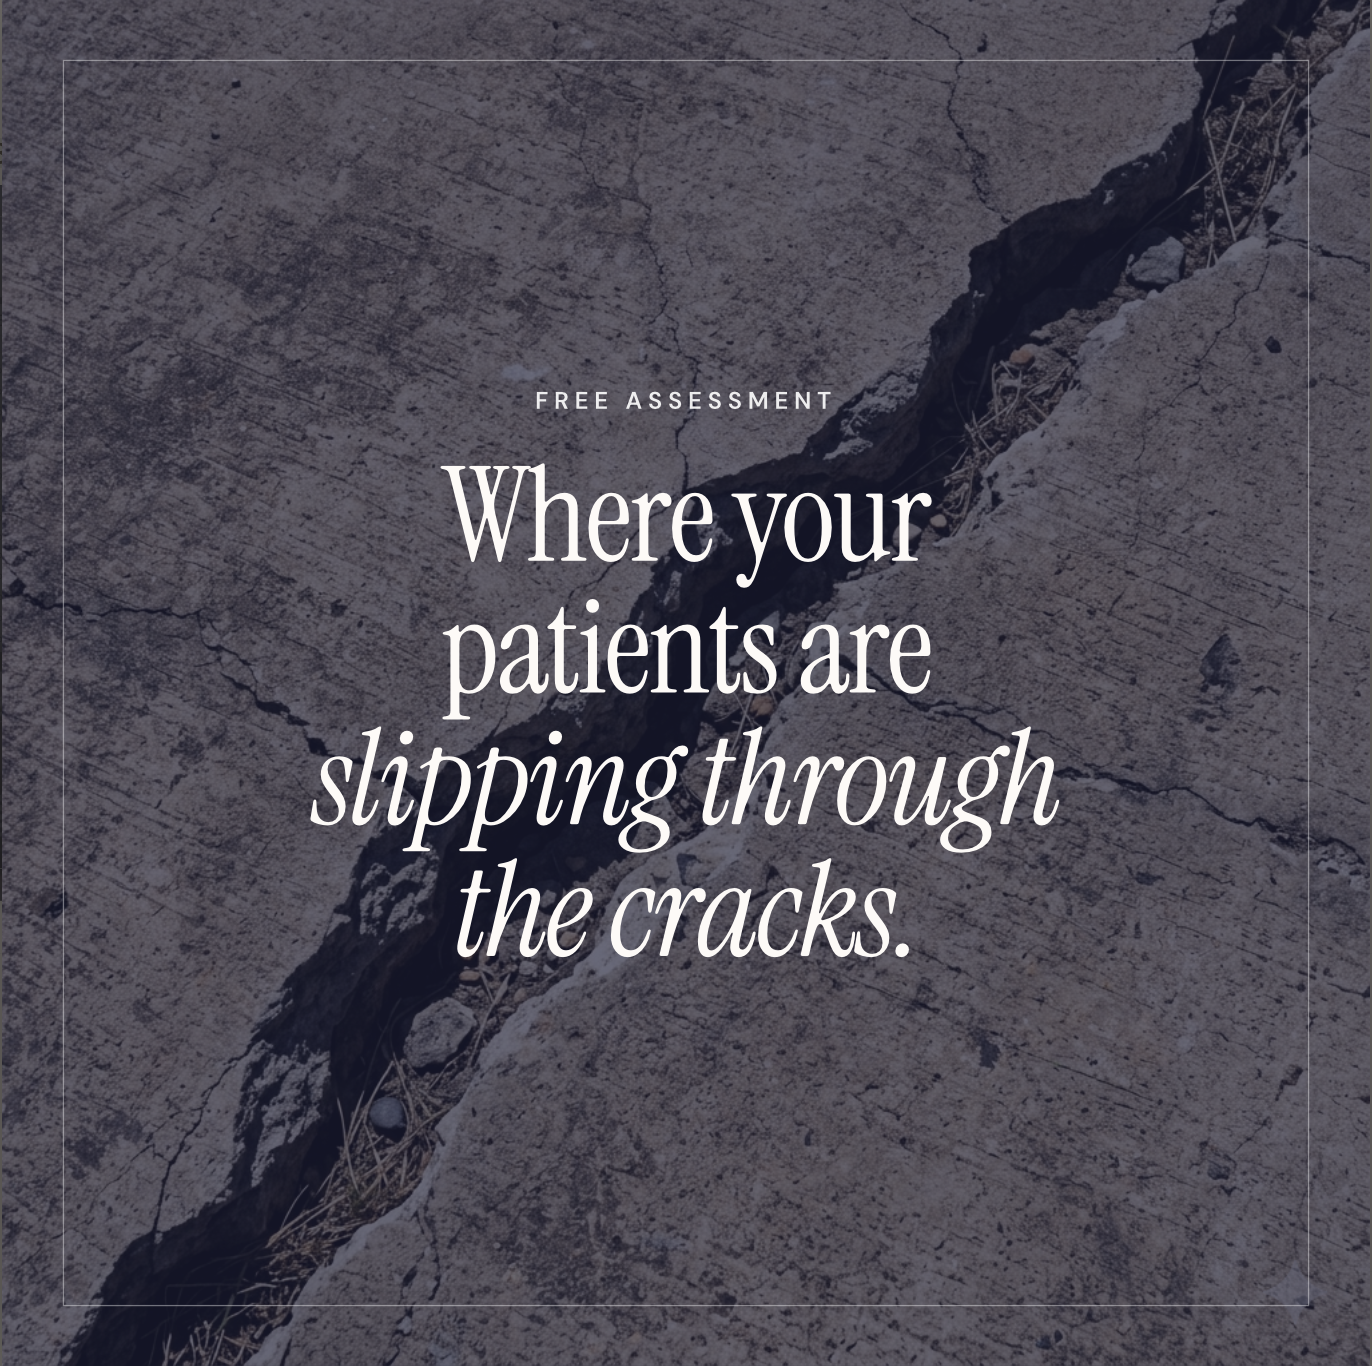
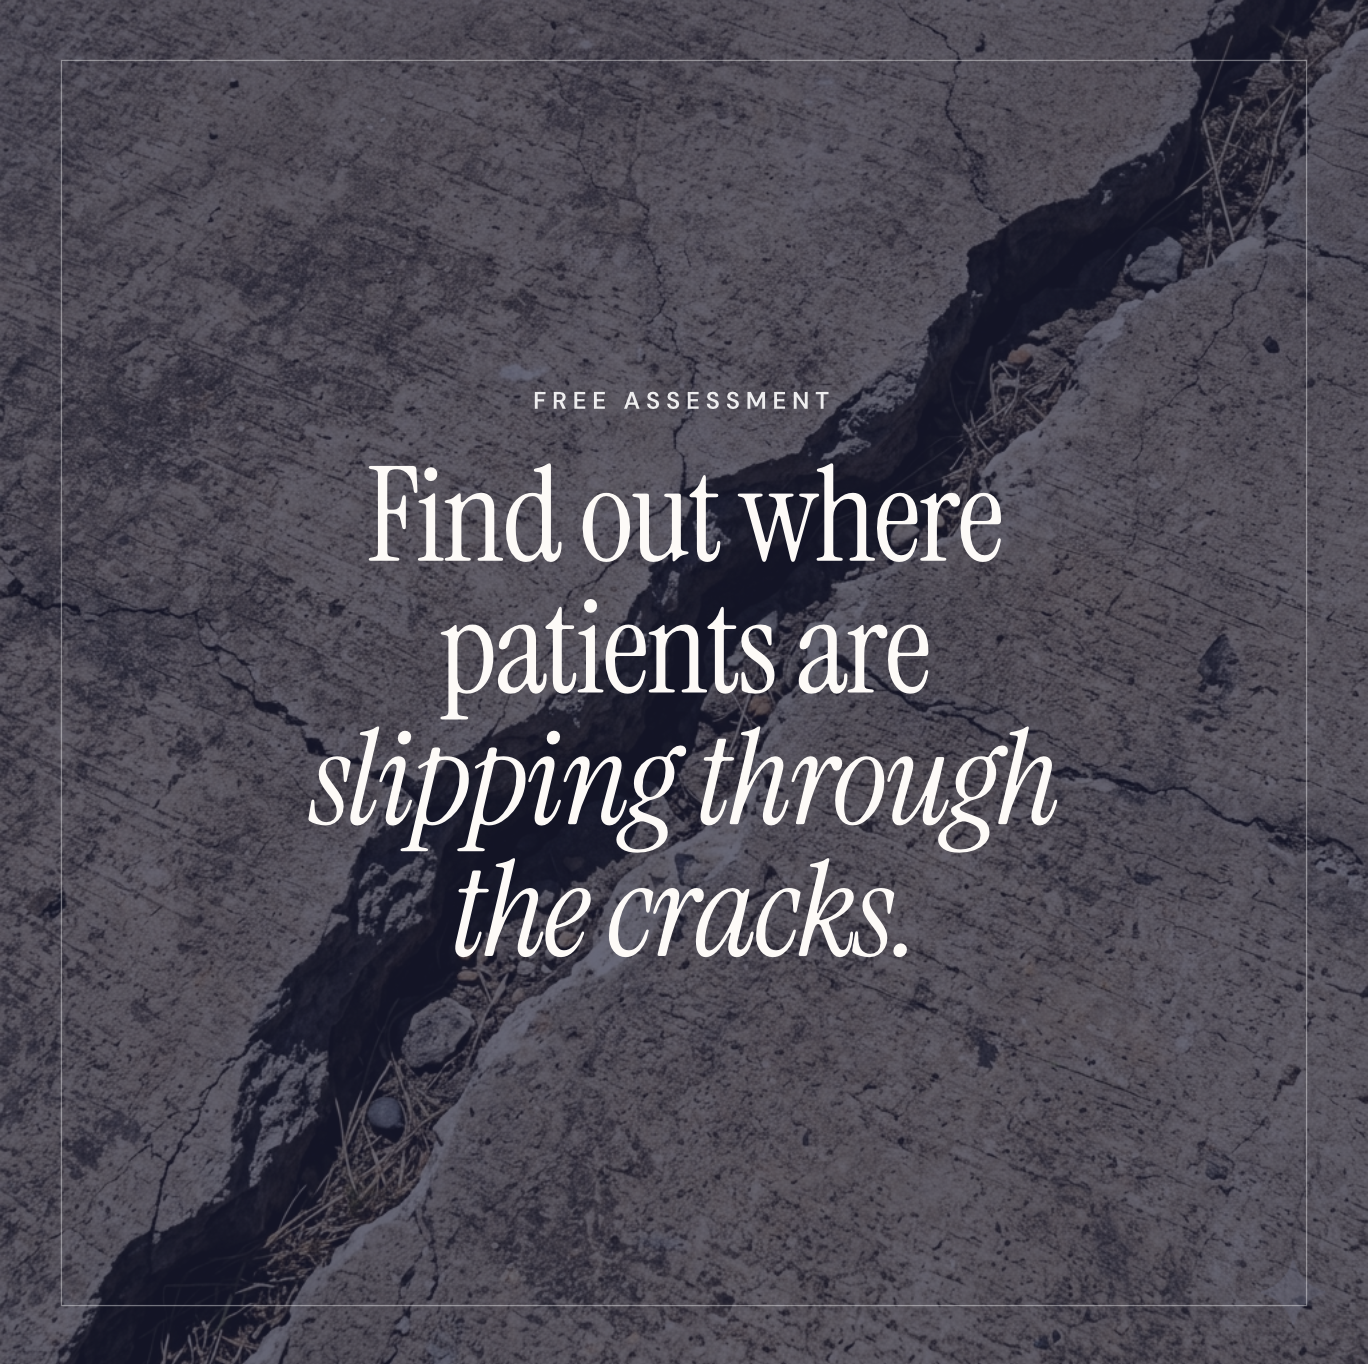
Remove ad labels, update ad-2

diff --git a/portfolio.html b/portfolio.html
@@ -237,24 +237,18 @@
         <div class="port-img" style="background:var(--warm); padding:24px;">
           <img src="portfolio-images/milli-logo.jpg" alt="Milli Health &amp; Wellness" style="width:100%; height:100%; object-fit:contain;">
         </div>
-        <span class="port-label">Menopause practice</span>
-        <p class="port-title">Milli Health &amp; Wellness</p>
       </div>
 
       <div class="port-item">
         <div class="port-img" style="background:var(--warm); padding:24px;">
           <img src="portfolio-images/SGB-logo.jpg" alt="Salted Grain Bake House" style="width:100%; height:100%; object-fit:contain;">
         </div>
-        <span class="port-label">Bakery</span>
-        <p class="port-title">Salted Grain Bake House</p>
       </div>
 
       <div class="port-item">
         <div class="port-img" style="background:var(--warm); padding:24px;">
           <img src="portfolio-images/Giles-logo.jpg" alt="David R. Giles" style="width:100%; height:100%; object-fit:contain;">
         </div>
-        <span class="port-label">Education attorney</span>
-        <p class="port-title">David R. Giles, Esq.</p>
       </div>
 
     </div>
@@ -277,24 +271,18 @@
         <div class="port-img">
           <img src="portfolio-images/Giles-Business Card.jpg" alt="David R. Giles, Esq." style="width:100%; height:100%; object-fit:cover;">
         </div>
-        <span class="port-label">Education attorney</span>
-        <p class="port-title">David R. Giles, Esq.</p>
       </div>
 
       <div class="port-item">
         <div class="port-img">
           <img src="portfolio-images/THR-brochure.jpg" alt="The Home Refresh" style="width:100%; height:100%; object-fit:cover;">
         </div>
-        <span class="port-label">Home organizer</span>
-        <p class="port-title">The Home Refresh</p>
       </div>
 
       <div class="port-item">
         <div class="port-img">
           <img src="portfolio-images/ISS-Business Card.jpg" alt="Innovative Software Solutions" style="width:100%; height:100%; object-fit:cover;">
         </div>
-        <span class="port-label">Software consultancy</span>
-        <p class="port-title">Innovative Software Solutions</p>
       </div>
 
     </div>
@@ -317,56 +305,42 @@
         <div class="port-img" style="aspect-ratio:1/1;">
           <img src="previews/portfolio/ad-1.png" alt="Most practices guess. You don't have to.">
         </div>
-        <span class="port-label">Patient growth assessment</span>
-        <p class="port-title">Most practices guess</p>
       </div>
 
       <div class="port-item">
         <div class="port-img" style="aspect-ratio:1/1;">
           <img src="previews/portfolio/ad-2.png" alt="Booked out, or guessing?">
         </div>
-        <span class="port-label">Patient growth assessment</span>
-        <p class="port-title">Booked out, or guessing?</p>
       </div>
 
       <div class="port-item">
         <div class="port-img" style="aspect-ratio:1/1;">
           <img src="previews/portfolio/ad-3.png" alt="Where your patients are slipping through the cracks">
         </div>
-        <span class="port-label">Patient growth assessment</span>
-        <p class="port-title">Slipping through the cracks</p>
       </div>
 
       <div class="port-item">
         <div class="port-img" style="aspect-ratio:1/1;">
           <img src="previews/portfolio/ad-4.png" alt="Your practice has a leak. Find it.">
         </div>
-        <span class="port-label">Patient growth assessment</span>
-        <p class="port-title">Your practice has a leak</p>
       </div>
 
       <div class="port-item">
         <div class="port-img" style="aspect-ratio:1/1;">
           <img src="previews/portfolio/ad-5.png" alt="Where are the patients going?">
         </div>
-        <span class="port-label">Patient growth assessment</span>
-        <p class="port-title">Where are the patients going?</p>
       </div>
 
       <div class="port-item">
         <div class="port-img" style="aspect-ratio:1/1;">
           <img src="previews/portfolio/ad-6.png" alt="Ad creative 06">
         </div>
-        <span class="port-label">Patient growth assessment</span>
-        <p class="port-title">Ad Creative 06</p>
       </div>
 
       <div class="port-item">
         <div class="port-img" style="aspect-ratio:1/1;">
           <img src="previews/portfolio/ad-7.png" alt="Ad creative 07">
         </div>
-        <span class="port-label">Patient growth assessment</span>
-        <p class="port-title">Ad Creative 07</p>
       </div>
 
     </div>
